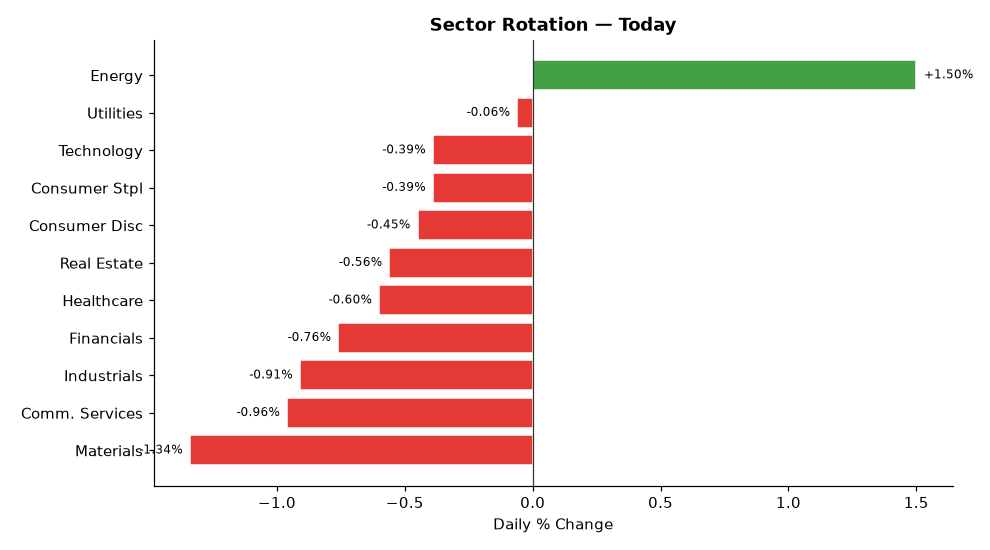
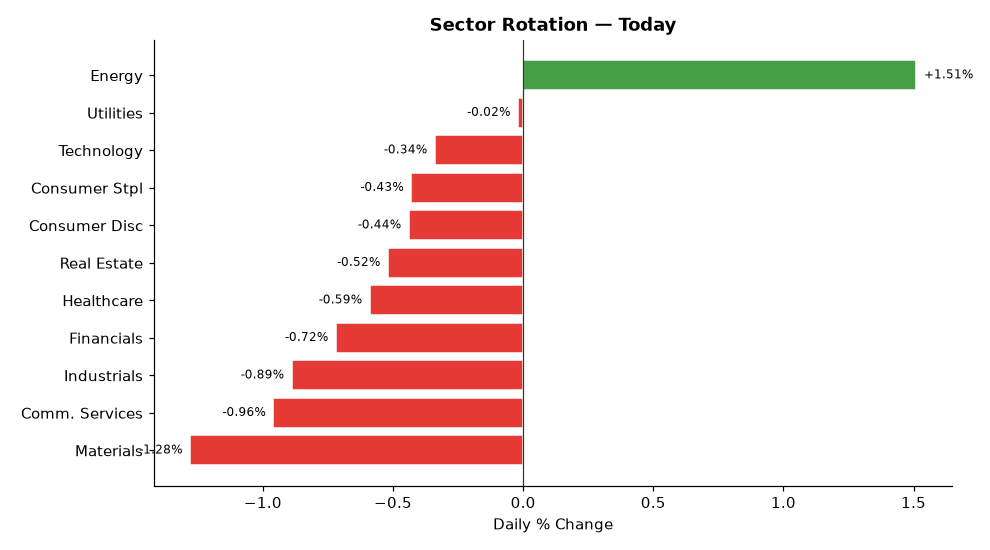
deploy: b7fadf5b06deb90e7ebb92f278722414bdd9750d

diff --git a/index.html b/index.html
@@ -4,7 +4,7 @@
   <meta charset="UTF-8">
   <meta name="viewport" content="width=device-width,initial-scale=1">
   <meta http-equiv="Cache-Control" content="no-cache,no-store,must-revalidate">
-  <title>Stock Breakout Screener — 2026-11-12 20:58</title>
+  <title>Stock Breakout Screener — 2026-11-12 21:31</title>
   <style>
     *{box-sizing:border-box;margin:0;padding:0}
     body{font-family:'Segoe UI',Arial,sans-serif;background:#f0f2f5;
@@ -34,20 +34,20 @@
 
 <div class="hdr">
   <h1>📈 Stock Breakout Screener</h1>
-  <p>Updated: 2026-11-12 20:58 UTC &nbsp;·&nbsp; Phase: After-Hours (4:00–8:00 PM ET) &nbsp;·&nbsp;
+  <p>Updated: 2026-11-12 21:31 UTC &nbsp;·&nbsp; Phase: After-Hours (4:00–8:00 PM ET) &nbsp;·&nbsp;
      129 stocks screened &nbsp;·&nbsp; Top 5 by conviction score</p>
 </div>
 
 <div class="card">
   <strong style="font-size:14px">Market Sentiment: 🐻 Bearish</strong>
   <div class="bar-wrap" style="margin-top:10px">
-    <div style="width:0%;background:#43a047"></div>
-    <div style="width:8%;background:#fdd835"></div>
+    <div style="width:1%;background:#43a047"></div>
+    <div style="width:7%;background:#fdd835"></div>
     <div style="width:92%;background:#e53935"></div>
   </div>
   <div style="font-size:12px;color:#555">
-    🟢 Strong 0% &nbsp;
-    🟡 Moderate 8% &nbsp;
+    🟢 Strong 1% &nbsp;
+    🟡 Moderate 7% &nbsp;
     🔴 Weak 92%
   </div>
 </div>
@@ -59,17 +59,17 @@
                     box-shadow:0 2px 6px rgba(0,0,0,.07)">
           <div style="display:flex;align-items:center;gap:10px;
                       flex-wrap:wrap;margin-bottom:10px">
-            <span style="font-size:22px">🟡</span>
+            <span style="font-size:22px">🟢</span>
             <span style="font-size:19px;font-weight:700">1. AMD</span>
             <span style="font-size:12px;color:#666">Technology</span>
             <span style="margin-left:auto;background:#1a237e;color:#fff;
                          padding:3px 12px;border-radius:12px;
                          font-size:13px;font-weight:600">
-              11/17
+              12/17
             </span>
           </div>
           <ul style="margin:0;padding-left:18px;font-size:13px;
-                     color:#333;line-height:1.8"><li style="margin:5px 0"><span style="background:#fffde7;color:#f57f17;padding:2px 7px;border-radius:4px;font-size:11px;">⚠</span> Volume: <b>1.9× average</b> — Above-average activity</li><li style="margin:5px 0"><span style="background:#fffde7;color:#f57f17;padding:2px 7px;border-radius:4px;font-size:11px;">⚠</span> Candle: close <b>$584.15</b> vs open <b>$569.28</b> (+2.6%) — regular market close</li><li style="margin:5px 0"><span style="background:#e8f5e9;color:#2e7d32;padding:2px 7px;border-radius:4px;font-size:11px;">✅</span> 200-Day MA: price <b>$584.15</b> vs MA <b>$518.52</b> — <b>✅ Above</b> long-term trend</li><li style="margin:5px 0"><span style="background:#e8f5e9;color:#2e7d32;padding:2px 7px;border-radius:4px;font-size:11px;">✅</span> Inst. ownership: <b>76.9%</b> · MFI: <b>72.6</b> · Market cap: <b>$958.4B</b></li></ul>
+                     color:#333;line-height:1.8"><li style="margin:5px 0"><span style="background:#e8f5e9;color:#2e7d32;padding:2px 7px;border-radius:4px;font-size:11px;">✅</span> Volume: <b>2.0× average</b> — 🔥 Strong unusual activity</li><li style="margin:5px 0"><span style="background:#fffde7;color:#f57f17;padding:2px 7px;border-radius:4px;font-size:11px;">⚠</span> Candle: close <b>$585.30</b> vs open <b>$569.28</b> (+2.8%) — regular market close</li><li style="margin:5px 0"><span style="background:#e8f5e9;color:#2e7d32;padding:2px 7px;border-radius:4px;font-size:11px;">✅</span> 200-Day MA: price <b>$585.30</b> vs MA <b>$519.08</b> — <b>✅ Above</b> long-term trend</li><li style="margin:5px 0"><span style="background:#e8f5e9;color:#2e7d32;padding:2px 7px;border-radius:4px;font-size:11px;">✅</span> Inst. ownership: <b>76.9%</b> · MFI: <b>72.7</b> · Market cap: <b>$959.9B</b></li></ul>
         </div>
         <div style="background:#fff;border:1px solid #ddd;border-radius:10px;
                     padding:16px 20px;margin-bottom:12px;
@@ -77,7 +77,41 @@
           <div style="display:flex;align-items:center;gap:10px;
                       flex-wrap:wrap;margin-bottom:10px">
             <span style="font-size:22px">🟡</span>
-            <span style="font-size:19px;font-weight:700">2. ROP</span>
+            <span style="font-size:19px;font-weight:700">2. ED</span>
+            <span style="font-size:12px;color:#666">Utilities</span>
+            <span style="margin-left:auto;background:#1a237e;color:#fff;
+                         padding:3px 12px;border-radius:12px;
+                         font-size:13px;font-weight:600">
+              11/17
+            </span>
+          </div>
+          <ul style="margin:0;padding-left:18px;font-size:13px;
+                     color:#333;line-height:1.8"><li style="margin:5px 0"><span style="background:#fffde7;color:#f57f17;padding:2px 7px;border-radius:4px;font-size:11px;">⚠</span> Volume: <b>1.7× average</b> — Above-average activity</li><li style="margin:5px 0"><span style="background:#fffde7;color:#f57f17;padding:2px 7px;border-radius:4px;font-size:11px;">⚠</span> Candle: close <b>$119.35</b> vs open <b>$120.17</b> (-0.7%) — regular market close</li><li style="margin:5px 0"><span style="background:#e8f5e9;color:#2e7d32;padding:2px 7px;border-radius:4px;font-size:11px;">✅</span> 200-Day MA: price <b>$119.35</b> vs MA <b>$108.65</b> — <b>✅ Above</b> long-term trend</li><li style="margin:5px 0"><span style="background:#e8f5e9;color:#2e7d32;padding:2px 7px;border-radius:4px;font-size:11px;">✅</span> Inst. ownership: <b>77.8%</b> · MFI: <b>60.2</b> · Market cap: <b>$44.3B</b></li></ul>
+        </div>
+        <div style="background:#fff;border:1px solid #ddd;border-radius:10px;
+                    padding:16px 20px;margin-bottom:12px;
+                    box-shadow:0 2px 6px rgba(0,0,0,.07)">
+          <div style="display:flex;align-items:center;gap:10px;
+                      flex-wrap:wrap;margin-bottom:10px">
+            <span style="font-size:22px">🟡</span>
+            <span style="font-size:19px;font-weight:700">3. CLX</span>
+            <span style="font-size:12px;color:#666">Consumer Stpl</span>
+            <span style="margin-left:auto;background:#1a237e;color:#fff;
+                         padding:3px 12px;border-radius:12px;
+                         font-size:13px;font-weight:600">
+              10/17
+            </span>
+          </div>
+          <ul style="margin:0;padding-left:18px;font-size:13px;
+                     color:#333;line-height:1.8"><li style="margin:5px 0"><span style="background:#fffde7;color:#f57f17;padding:2px 7px;border-radius:4px;font-size:11px;">⚠</span> Volume: <b>1.5× average</b> — Above-average activity</li><li style="margin:5px 0"><span style="background:#fffde7;color:#f57f17;padding:2px 7px;border-radius:4px;font-size:11px;">⚠</span> Candle: close <b>$108.20</b> vs open <b>$107.52</b> (+0.6%) — regular market close</li><li style="margin:5px 0"><span style="background:#e8f5e9;color:#2e7d32;padding:2px 7px;border-radius:4px;font-size:11px;">✅</span> 200-Day MA: price <b>$108.20</b> vs MA <b>$92.39</b> — <b>✅ Above</b> long-term trend</li><li style="margin:5px 0"><span style="background:#e8f5e9;color:#2e7d32;padding:2px 7px;border-radius:4px;font-size:11px;">✅</span> Inst. ownership: <b>88.3%</b> · MFI: <b>77.7</b> · Market cap: <b>$13.1B</b></li></ul>
+        </div>
+        <div style="background:#fff;border:1px solid #ddd;border-radius:10px;
+                    padding:16px 20px;margin-bottom:12px;
+                    box-shadow:0 2px 6px rgba(0,0,0,.07)">
+          <div style="display:flex;align-items:center;gap:10px;
+                      flex-wrap:wrap;margin-bottom:10px">
+            <span style="font-size:22px">🟡</span>
+            <span style="font-size:19px;font-weight:700">4. ROP</span>
             <span style="font-size:12px;color:#666">Industrials</span>
             <span style="margin-left:auto;background:#1a237e;color:#fff;
                          padding:3px 12px;border-radius:12px;
@@ -86,7 +120,7 @@
             </span>
           </div>
           <ul style="margin:0;padding-left:18px;font-size:13px;
-                     color:#333;line-height:1.8"><li style="margin:5px 0"><span style="background:#ffebee;color:#b71c1c;padding:2px 7px;border-radius:4px;font-size:11px;">❌</span> Volume: <b>0.4× average</b> — Above-average activity</li><li style="margin:5px 0"><span style="background:#ffebee;color:#b71c1c;padding:2px 7px;border-radius:4px;font-size:11px;">❌</span> Candle: close <b>$477.83</b> vs open <b>$482.79</b> (-1.0%) — regular market close</li><li style="margin:5px 0"><span style="background:#e8f5e9;color:#2e7d32;padding:2px 7px;border-radius:4px;font-size:11px;">✅</span> 200-Day MA: price <b>$477.83</b> vs MA <b>$376.85</b> — <b>✅ Above</b> long-term trend</li><li style="margin:5px 0"><span style="background:#e8f5e9;color:#2e7d32;padding:2px 7px;border-radius:4px;font-size:11px;">✅</span> Inst. ownership: <b>106.9%</b> · MFI: <b>69.8</b> · Market cap: <b>$47.3B</b></li><li style="margin:5px 0"><span style="background:#e8f5e9;color:#2e7d32;padding:2px 7px;border-radius:4px;font-size:11px;">✅</span> Last similar breakout: <b>Oct 22, 2026</b> → <b>+12.5%</b> over 10 trading days</li></ul>
+                     color:#333;line-height:1.8"><li style="margin:5px 0"><span style="background:#ffebee;color:#b71c1c;padding:2px 7px;border-radius:4px;font-size:11px;">❌</span> Volume: <b>0.7× average</b> — Above-average activity</li><li style="margin:5px 0"><span style="background:#ffebee;color:#b71c1c;padding:2px 7px;border-radius:4px;font-size:11px;">❌</span> Candle: close <b>$477.87</b> vs open <b>$482.29</b> (-0.9%) — regular market close</li><li style="margin:5px 0"><span style="background:#e8f5e9;color:#2e7d32;padding:2px 7px;border-radius:4px;font-size:11px;">✅</span> 200-Day MA: price <b>$477.87</b> vs MA <b>$377.27</b> — <b>✅ Above</b> long-term trend</li><li style="margin:5px 0"><span style="background:#e8f5e9;color:#2e7d32;padding:2px 7px;border-radius:4px;font-size:11px;">✅</span> Inst. ownership: <b>106.9%</b> · MFI: <b>70.2</b> · Market cap: <b>$47.3B</b></li><li style="margin:5px 0"><span style="background:#e8f5e9;color:#2e7d32;padding:2px 7px;border-radius:4px;font-size:11px;">✅</span> Last similar breakout: <b>Oct 22, 2026</b> → <b>+12.5%</b> over 10 trading days</li></ul>
         </div>
         <div style="background:#fff;border:1px solid #ddd;border-radius:10px;
                     padding:16px 20px;margin-bottom:12px;
@@ -94,8 +128,8 @@
           <div style="display:flex;align-items:center;gap:10px;
                       flex-wrap:wrap;margin-bottom:10px">
             <span style="font-size:22px">🟡</span>
-            <span style="font-size:19px;font-weight:700">3. EOG</span>
-            <span style="font-size:12px;color:#666">Energy</span>
+            <span style="font-size:19px;font-weight:700">5. SO</span>
+            <span style="font-size:12px;color:#666">Utilities</span>
             <span style="margin-left:auto;background:#1a237e;color:#fff;
                          padding:3px 12px;border-radius:12px;
                          font-size:13px;font-weight:600">
@@ -103,41 +137,7 @@
             </span>
           </div>
           <ul style="margin:0;padding-left:18px;font-size:13px;
-                     color:#333;line-height:1.8"><li style="margin:5px 0"><span style="background:#ffebee;color:#b71c1c;padding:2px 7px;border-radius:4px;font-size:11px;">❌</span> Volume: <b>0.6× average</b> — Above-average activity</li><li style="margin:5px 0"><span style="background:#ffebee;color:#b71c1c;padding:2px 7px;border-radius:4px;font-size:11px;">❌</span> Candle: close <b>$155.74</b> vs open <b>$155.14</b> (+0.4%) — regular market close</li><li style="margin:5px 0"><span style="background:#e8f5e9;color:#2e7d32;padding:2px 7px;border-radius:4px;font-size:11px;">✅</span> 200-Day MA: price <b>$155.74</b> vs MA <b>$142.40</b> — <b>✅ Above</b> long-term trend</li><li style="margin:5px 0"><span style="background:#e8f5e9;color:#2e7d32;padding:2px 7px;border-radius:4px;font-size:11px;">✅</span> Inst. ownership: <b>99.3%</b> · MFI: <b>56.3</b> · Market cap: <b>$80.7B</b></li></ul>
-        </div>
-        <div style="background:#fff;border:1px solid #ddd;border-radius:10px;
-                    padding:16px 20px;margin-bottom:12px;
-                    box-shadow:0 2px 6px rgba(0,0,0,.07)">
-          <div style="display:flex;align-items:center;gap:10px;
-                      flex-wrap:wrap;margin-bottom:10px">
-            <span style="font-size:22px">🟡</span>
-            <span style="font-size:19px;font-weight:700">4. OXY</span>
-            <span style="font-size:12px;color:#666">Energy</span>
-            <span style="margin-left:auto;background:#1a237e;color:#fff;
-                         padding:3px 12px;border-radius:12px;
-                         font-size:13px;font-weight:600">
-              9/17
-            </span>
-          </div>
-          <ul style="margin:0;padding-left:18px;font-size:13px;
-                     color:#333;line-height:1.8"><li style="margin:5px 0"><span style="background:#fffde7;color:#f57f17;padding:2px 7px;border-radius:4px;font-size:11px;">⚠</span> Volume: <b>1.8× average</b> — Above-average activity</li><li style="margin:5px 0"><span style="background:#fffde7;color:#f57f17;padding:2px 7px;border-radius:4px;font-size:11px;">⚠</span> Candle: close <b>$58.39</b> vs open <b>$57.74</b> (+1.1%) — regular market close</li><li style="margin:5px 0"><span style="background:#e8f5e9;color:#2e7d32;padding:2px 7px;border-radius:4px;font-size:11px;">✅</span> 200-Day MA: price <b>$58.39</b> vs MA <b>$57.35</b> — <b>✅ Above</b> long-term trend</li><li style="margin:5px 0"><span style="background:#fffde7;color:#f57f17;padding:2px 7px;border-radius:4px;font-size:11px;">⚠</span> Inst. ownership: <b>59.3%</b> · MFI: <b>43.2</b> · Market cap: <b>$58.4B</b></li></ul>
-        </div>
-        <div style="background:#fff;border:1px solid #ddd;border-radius:10px;
-                    padding:16px 20px;margin-bottom:12px;
-                    box-shadow:0 2px 6px rgba(0,0,0,.07)">
-          <div style="display:flex;align-items:center;gap:10px;
-                      flex-wrap:wrap;margin-bottom:10px">
-            <span style="font-size:22px">🟡</span>
-            <span style="font-size:19px;font-weight:700">5. MSFT</span>
-            <span style="font-size:12px;color:#666">Technology</span>
-            <span style="margin-left:auto;background:#1a237e;color:#fff;
-                         padding:3px 12px;border-radius:12px;
-                         font-size:13px;font-weight:600">
-              9/17
-            </span>
-          </div>
-          <ul style="margin:0;padding-left:18px;font-size:13px;
-                     color:#333;line-height:1.8"><li style="margin:5px 0"><span style="background:#ffebee;color:#b71c1c;padding:2px 7px;border-radius:4px;font-size:11px;">❌</span> Volume: <b>0.4× average</b> — Above-average activity</li><li style="margin:5px 0"><span style="background:#ffebee;color:#b71c1c;padding:2px 7px;border-radius:4px;font-size:11px;">❌</span> Candle: close <b>$522.88</b> vs open <b>$521.30</b> (+0.3%) — regular market close</li><li style="margin:5px 0"><span style="background:#e8f5e9;color:#2e7d32;padding:2px 7px;border-radius:4px;font-size:11px;">✅</span> 200-Day MA: price <b>$522.88</b> vs MA <b>$462.82</b> — <b>✅ Above</b> long-term trend</li><li style="margin:5px 0"><span style="background:#e8f5e9;color:#2e7d32;padding:2px 7px;border-radius:4px;font-size:11px;">✅</span> Inst. ownership: <b>76.2%</b> · MFI: <b>33.1</b> · Market cap: <b>$3881.6B</b></li><li style="margin:5px 0"><span style="background:#e8f5e9;color:#2e7d32;padding:2px 7px;border-radius:4px;font-size:11px;">✅</span> Last similar breakout: <b>Jul 30, 2026</b> → <b>+10.1%</b> over 10 trading days</li></ul>
+                     color:#333;line-height:1.8"><li style="margin:5px 0"><span style="background:#e8f5e9;color:#2e7d32;padding:2px 7px;border-radius:4px;font-size:11px;">✅</span> Volume: <b>2.6× average</b> — 🔥 Strong unusual activity</li><li style="margin:5px 0"><span style="background:#fffde7;color:#f57f17;padding:2px 7px;border-radius:4px;font-size:11px;">⚠</span> Candle: close <b>$92.47</b> vs open <b>$93.54</b> (-1.1%) — regular market close</li><li style="margin:5px 0"><span style="background:#e8f5e9;color:#2e7d32;padding:2px 7px;border-radius:4px;font-size:11px;">✅</span> 200-Day MA: price <b>$92.47</b> vs MA <b>$91.13</b> — <b>✅ Above</b> long-term trend</li><li style="margin:5px 0"><span style="background:#e8f5e9;color:#2e7d32;padding:2px 7px;border-radius:4px;font-size:11px;">✅</span> Inst. ownership: <b>73.8%</b> · MFI: <b>44.6</b> · Market cap: <b>$107.7B</b></li></ul>
         </div>
 
 
@@ -168,93 +168,93 @@
   
         <tr>
           <td style="font-weight:700;text-align:left;padding-left:10px">
-            🟡 AMD</td>
-          <td style="background:#fff9c4">1.9×</td>
-          <td style="background:#fff9c4">+2.6%</td>
+            🟢 AMD</td>
+          <td style="background:#c8e6c9">2.0×</td>
+          <td style="background:#fff9c4">+2.8%</td>
           <td style="background:#c8e6c9">
             ▲ Above</td>
           <td style="background:#c8e6c9">
             76.9%</td>
           <td style="background:#c8e6c9">
-            72.6</td>
+            72.7</td>
           <td style="background:#fff9c4">Technology</td>
           <td style="background:#c8e6c9">
-            91.2%</td>
+            250.0%</td>
+          <td style="background:#ffcdd2">
+            N/A</td>
+          <td style="font-weight:800;font-size:15px">12/17</td>
+        </tr>
+        <tr>
+          <td style="font-weight:700;text-align:left;padding-left:10px">
+            🟡 ED</td>
+          <td style="background:#fff9c4">1.7×</td>
+          <td style="background:#fff9c4">-0.7%</td>
+          <td style="background:#c8e6c9">
+            ▲ Above</td>
+          <td style="background:#c8e6c9">
+            77.8%</td>
+          <td style="background:#c8e6c9">
+            60.2</td>
+          <td style="background:#fff9c4">Utilities</td>
+          <td style="background:#c8e6c9">
+            59.5%</td>
           <td style="background:#ffcdd2">
             N/A</td>
           <td style="font-weight:800;font-size:15px">11/17</td>
         </tr>
         <tr>
           <td style="font-weight:700;text-align:left;padding-left:10px">
+            🟡 CLX</td>
+          <td style="background:#fff9c4">1.5×</td>
+          <td style="background:#fff9c4">+0.6%</td>
+          <td style="background:#c8e6c9">
+            ▲ Above</td>
+          <td style="background:#c8e6c9">
+            88.3%</td>
+          <td style="background:#c8e6c9">
+            77.7</td>
+          <td style="background:#ffcdd2">Consumer Stpl</td>
+          <td style="background:#c8e6c9">
+            72.9%</td>
+          <td style="background:#ffcdd2">
+            N/A</td>
+          <td style="font-weight:800;font-size:15px">10/17</td>
+        </tr>
+        <tr>
+          <td style="font-weight:700;text-align:left;padding-left:10px">
             🟡 ROP</td>
-          <td style="background:#ffcdd2">0.4×</td>
-          <td style="background:#ffcdd2">-1.0%</td>
+          <td style="background:#ffcdd2">0.7×</td>
+          <td style="background:#ffcdd2">-0.9%</td>
           <td style="background:#c8e6c9">
             ▲ Above</td>
           <td style="background:#c8e6c9">
             106.9%</td>
           <td style="background:#c8e6c9">
-            69.8</td>
+            70.2</td>
           <td style="background:#ffcdd2">Industrials</td>
           <td style="background:#c8e6c9">
-            52.8%</td>
+            55.4%</td>
           <td style="background:#c8e6c9">
             +12.5%</td>
           <td style="font-weight:800;font-size:15px">10/17</td>
         </tr>
         <tr>
           <td style="font-weight:700;text-align:left;padding-left:10px">
-            🟡 EOG</td>
-          <td style="background:#ffcdd2">0.6×</td>
-          <td style="background:#ffcdd2">+0.4%</td>
+            🟡 SO</td>
+          <td style="background:#c8e6c9">2.6×</td>
+          <td style="background:#fff9c4">-1.1%</td>
           <td style="background:#c8e6c9">
             ▲ Above</td>
           <td style="background:#c8e6c9">
-            99.3%</td>
-          <td style="background:#fff9c4">
-            56.3</td>
-          <td style="background:#c8e6c9">Energy</td>
+            73.8%</td>
+          <td style="background:#ffcdd2">
+            44.6</td>
+          <td style="background:#fff9c4">Utilities</td>
           <td style="background:#c8e6c9">
-            94.7%</td>
+            76.0%</td>
           <td style="background:#ffcdd2">
             N/A</td>
           <td style="font-weight:800;font-size:15px">10/17</td>
-        </tr>
-        <tr>
-          <td style="font-weight:700;text-align:left;padding-left:10px">
-            🟡 OXY</td>
-          <td style="background:#fff9c4">1.8×</td>
-          <td style="background:#fff9c4">+1.1%</td>
-          <td style="background:#c8e6c9">
-            ▲ Above</td>
-          <td style="background:#fff9c4">
-            59.3%</td>
-          <td style="background:#ffcdd2">
-            43.2</td>
-          <td style="background:#c8e6c9">Energy</td>
-          <td style="background:#c8e6c9">
-            107.7%</td>
-          <td style="background:#ffcdd2">
-            N/A</td>
-          <td style="font-weight:800;font-size:15px">9/17</td>
-        </tr>
-        <tr>
-          <td style="font-weight:700;text-align:left;padding-left:10px">
-            🟡 MSFT</td>
-          <td style="background:#ffcdd2">0.4×</td>
-          <td style="background:#ffcdd2">+0.3%</td>
-          <td style="background:#c8e6c9">
-            ▲ Above</td>
-          <td style="background:#c8e6c9">
-            76.2%</td>
-          <td style="background:#ffcdd2">
-            33.1</td>
-          <td style="background:#fff9c4">Technology</td>
-          <td style="background:#c8e6c9">
-            104.6%</td>
-          <td style="background:#c8e6c9">
-            +10.1%</td>
-          <td style="font-weight:800;font-size:15px">9/17</td>
         </tr>
 </table>
 </div>
@@ -278,47 +278,47 @@
         <tr>
           <td style="text-align:left;padding-left:10px;font-weight:600">
             #1 Energy</td>
-          <td style="background:#e8f5e9;color:#2e7d32;font-weight:700">+1.50%</td>
+          <td style="background:#e8f5e9;color:#2e7d32;font-weight:700">+1.51%</td>
         </tr>
         <tr>
           <td style="text-align:left;padding-left:10px;font-weight:600">
             #2 Utilities</td>
-          <td style="background:#ffebee;color:#c62828;font-weight:700">-0.06%</td>
+          <td style="background:#ffebee;color:#c62828;font-weight:700">-0.02%</td>
         </tr>
         <tr>
           <td style="text-align:left;padding-left:10px;font-weight:600">
             #3 Technology</td>
-          <td style="background:#ffebee;color:#c62828;font-weight:700">-0.39%</td>
+          <td style="background:#ffebee;color:#c62828;font-weight:700">-0.34%</td>
         </tr>
         <tr>
           <td style="text-align:left;padding-left:10px;font-weight:600">
             #4 Consumer Stpl</td>
-          <td style="background:#ffebee;color:#c62828;font-weight:700">-0.39%</td>
+          <td style="background:#ffebee;color:#c62828;font-weight:700">-0.43%</td>
         </tr>
         <tr>
           <td style="text-align:left;padding-left:10px;font-weight:600">
             #5 Consumer Disc</td>
-          <td style="background:#ffebee;color:#c62828;font-weight:700">-0.45%</td>
+          <td style="background:#ffebee;color:#c62828;font-weight:700">-0.44%</td>
         </tr>
         <tr>
           <td style="text-align:left;padding-left:10px;font-weight:600">
             #6 Real Estate</td>
-          <td style="background:#ffebee;color:#c62828;font-weight:700">-0.56%</td>
+          <td style="background:#ffebee;color:#c62828;font-weight:700">-0.52%</td>
         </tr>
         <tr>
           <td style="text-align:left;padding-left:10px;font-weight:600">
             #7 Healthcare</td>
-          <td style="background:#ffebee;color:#c62828;font-weight:700">-0.60%</td>
+          <td style="background:#ffebee;color:#c62828;font-weight:700">-0.59%</td>
         </tr>
         <tr>
           <td style="text-align:left;padding-left:10px;font-weight:600">
             #8 Financials</td>
-          <td style="background:#ffebee;color:#c62828;font-weight:700">-0.76%</td>
+          <td style="background:#ffebee;color:#c62828;font-weight:700">-0.72%</td>
         </tr>
         <tr>
           <td style="text-align:left;padding-left:10px;font-weight:600">
             #9 Industrials</td>
-          <td style="background:#ffebee;color:#c62828;font-weight:700">-0.91%</td>
+          <td style="background:#ffebee;color:#c62828;font-weight:700">-0.89%</td>
         </tr>
         <tr>
           <td style="text-align:left;padding-left:10px;font-weight:600">
@@ -328,7 +328,7 @@
         <tr>
           <td style="text-align:left;padding-left:10px;font-weight:600">
             #11 Materials</td>
-          <td style="background:#ffebee;color:#c62828;font-weight:700">-1.34%</td>
+          <td style="background:#ffebee;color:#c62828;font-weight:700">-1.28%</td>
         </tr>
     </table>
   </div>
@@ -367,7 +367,7 @@
         <li><b>Scoring weights:</b>
             Inst.Own(3) · Sector(3) · Volume(2) · Breakout(2) ·
             MA200(2) · MFI(2) · History(2) · IV(1) = 17pts max</li>
-        <li><b>Run time:</b> 2026-11-12 20:58 UTC — Market phase: After-Hours (4:00–8:00 PM ET)</li>
+        <li><b>Run time:</b> 2026-11-12 21:31 UTC — Market phase: After-Hours (4:00–8:00 PM ET)</li>
       </ul>
     </div>
 
